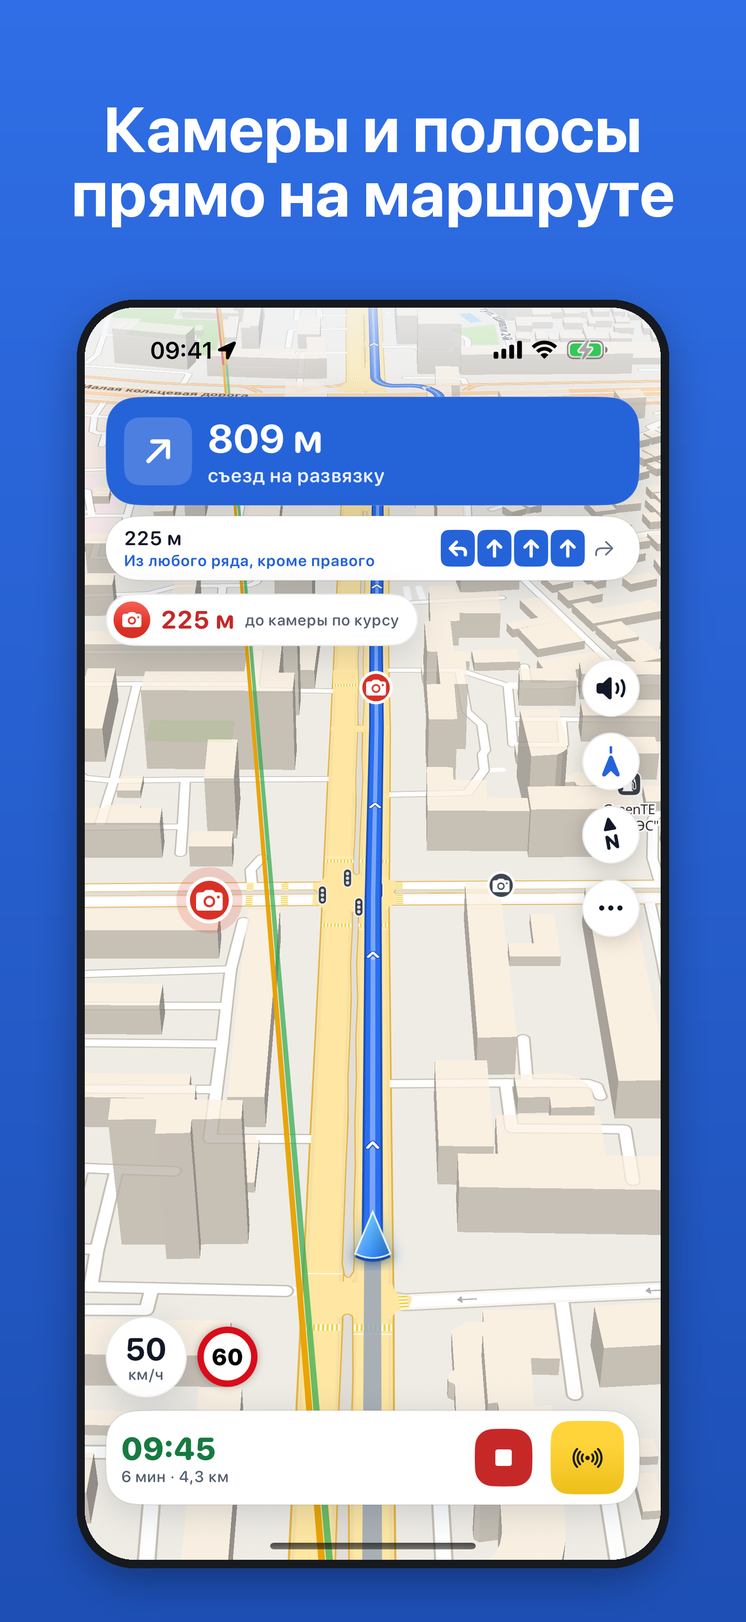
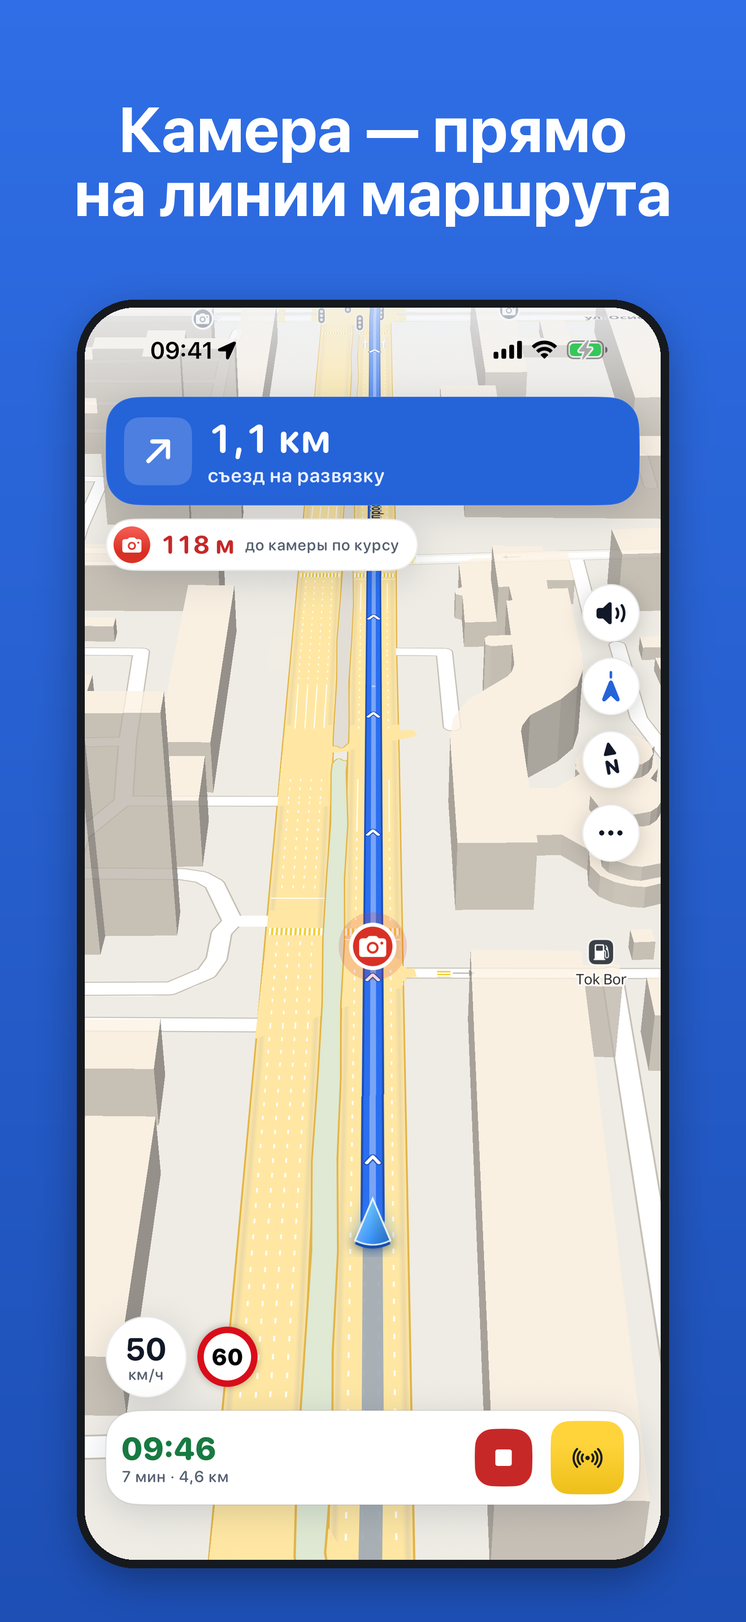
Скриншоты App Store: пересняты 2, 3, 5, 6; подписи вариантов маршрута не прячутся под камерами и названиями
Подпись «24 мин» отходит от значков камер (RoutePreview.clearOfCameras,
тесты) и стоит над подписями основы, под метками приложения — названия
её обходят. Пример имени для близких — «Азиз».

diff --git a/RadarMap/Features/Map/Engine/EngineRouteVariants.swift b/RadarMap/Features/Map/Engine/EngineRouteVariants.swift
@@ -11,7 +11,8 @@
 //  Слои ставятся в живой стиль при загрузке, а не в JSON стиля: это
 //  временная картинка экрана выбора, и шаблон выпуска о ней знать не должен.
 //  Стоит ниже «route-traveled»/«route-case» — выбранную ленту ничто не
-//  перекрывает; подписи — над стрелками маршрута, под камерами.
+//  перекрывает; подписи — над подписями основы (названия их обходят), под
+//  камерами и прочими метками приложения.
 //
 //  В ведении (поездка) вариантов нет: источник пуст, слои маршрута в ведении
 //  этот файл не трогает.
@@ -50,6 +51,14 @@ final class EngineRouteVariants {
         var variants: [RouteVariantLine]
         var selected: Int?
         var daylight: Bool
+        /// Значки камер, которых подпись сторонится (RoutePreview.clearOfCameras).
+        var avoid: [CameraSpot]
+    }
+
+    /// Где нарисован значок камеры — для подписи, а не для оповещения.
+    struct CameraSpot: Equatable {
+        let latitude: Double
+        let longitude: Double
     }
 
     private var installed = false
@@ -73,10 +82,12 @@ final class EngineRouteVariants {
     /// Показаны ли сейчас варианты (больше одного).
     var isShowing: Bool { lines.count > 1 }
 
-    func update(_ variants: [RouteVariantLine], selected: Int?, daylight: Bool, in view: MLNMapView) {
+    func update(_ variants: [RouteVariantLine], selected: Int?, daylight: Bool,
+                avoid: [CameraSpot] = [], in view: MLNMapView) {
         guard let style = view.style else { return }
         if !installed { install(in: style, daylight: daylight) }
-        let key = Key(variants: variants.count > 1 ? variants : [], selected: selected, daylight: daylight)
+        let key = Key(variants: variants.count > 1 ? variants : [], selected: selected, daylight: daylight,
+                      avoid: variants.count > 1 ? avoid : [])
         guard key != lastKey else { return }
         let themeChanged = lastKey?.daylight != daylight
         lastKey = key
@@ -102,11 +113,14 @@ final class EngineRouteVariants {
             others.isEmpty ? nil : MLNShapeCollectionFeature(shapes: others)
         // Подписи — у каждого варианта, в месте, где он отдельно от других.
         let mapLines = lines.map { $0.coordinates.map { MKMapPoint($0) } }
+        let cameraPoints = key.avoid.map {
+            MKMapPoint(CLLocationCoordinate2D(latitude: $0.latitude, longitude: $0.longitude))
+        }
         var labels: [MLNPointFeature] = []
         labelPoints = [:]
         var names: Set<String> = []
         for (index, variant) in shown.enumerated() {
-            guard let point = RoutePreview.labelPoint(of: index, lines: mapLines) else { continue }
+            guard let point = RoutePreview.labelPoint(of: index, lines: mapLines, avoid: cameraPoints) else { continue }
             let isSelected = variant.id == selected
             let name = "radar-variant-\(variant.id)-\(isSelected ? 1 : 0)-\(daylight ? "d" : "n")-\(variant.eta)"
             if !imageNames.contains(name) {
@@ -171,20 +185,38 @@ final class EngineRouteVariants {
         if style.layer(withIdentifier: Self.labelLayer) == nil {
             let labels = MLNSymbolStyleLayer(identifier: Self.labelLayer, source: labelSource)
             labels.iconImageName = NSExpression(forKeyPath: "img")
-            // Подпись не вытесняет ни камеру, ни название улицы — и её ничто
-            // не прячет: время варианта — то, ради чего человек смотрит.
+            // Время варианта — то, ради чего человек смотрит: подпись ничто не
+            // прячет (allow-overlap), а названия основы её обходят — она
+            // занимает место в раскладке и стоит ВЫШЕ подписей основы, а
+            // раскладка идёт сверху вниз. До 22.10 подпись лежала под
+            // подписями основы с ignore-placement, и «Кызгалдак» печатался
+            // поверх «24 мин» (снимки App Store). Камеры и прочие метки
+            // приложения — выше подписи: камера на карте не пропадает никогда,
+            // а от значков подпись отходит сама (RoutePreview.clearOfCameras).
             labels.iconAllowsOverlap = NSExpression(forConstantValue: true)
-            labels.iconIgnoresPlacement = NSExpression(forConstantValue: true)
+            labels.iconIgnoresPlacement = NSExpression(forConstantValue: false)
             labels.symbolSortKey = NSExpression(forKeyPath: "rank")
-            if let arrows = style.layer(withIdentifier: "route-arrows") {
+            if let markers = Self.firstMarkerLayer(in: style) {
+                style.insertLayer(labels, below: markers)
+            } else if let arrows = style.layer(withIdentifier: "route-arrows") {
                 style.insertLayer(labels, above: arrows)
-            } else if let camera = style.layer(withIdentifier: "camera-dot") {
-                style.insertLayer(labels, below: camera)
             } else {
                 style.addLayer(labels)
             }
         }
         paint(style, daylight: daylight)
+    }
+
+    /// Нижний слой меток приложения (EngineMapStyle.markerLayers): над всеми
+    /// подписями основы и под камерами.
+    static let markerLayerIDs = ["hotspot-zone", "hotspot-edge", "cng-status", "road-events",
+                                 "camera-halo", "camera-dot"]
+
+    private static func firstMarkerLayer(in style: MLNStyle) -> MLNStyleLayer? {
+        for id in markerLayerIDs {
+            if let layer = style.layer(withIdentifier: id) { return layer }
+        }
+        return nil
     }
 
     private func paint(_ style: MLNStyle, daylight: Bool) {

diff --git a/RadarMapTests/RoutePreviewTests.swift b/RadarMapTests/RoutePreviewTests.swift
@@ -173,6 +173,57 @@ final class RoutePreviewTests: XCTestCase {
         XCTAssertNil(RoutePreview.labelPoint(of: 3, lines: [a, b]))
     }
 
+    /// Значок камеры лежит над подписью: на месте лучшей точки стоит камера —
+    /// подпись отходит вдоль своей линии на порог, а не прячет цифру под
+    /// значком («26 мин» читалось как «6 мин», снимки App Store 22.10).
+    func testLabelStepsAwayFromACameraIcon() {
+        func line(_ xy: [(Double, Double)]) -> [MKMapPoint] { xy.map { MKMapPoint(x: $0.0, y: $0.1) } }
+        let a = line([(0, 0), (500, 0), (1000, 0)])
+        let b = line([(0, 0), (200, 0), (500, 400), (800, 0), (1000, 0)])
+        let free = try! XCTUnwrap(RoutePreview.labelPoint(of: 1, lines: [a, b]))
+        let label = try! XCTUnwrap(RoutePreview.labelPoint(of: 1, lines: [a, b], avoid: [free]))
+        let clearance = 1000 * AppConfig.routeVariantLabelCameraClearance
+        XCTAssertGreaterThanOrEqual(hypot(label.x - free.x, label.y - free.y), clearance,
+                                    "подпись ушла от значка на порог")
+        XCTAssertGreaterThan(label.y, 150, "и осталась на отходе варианта, а не на общей линии")
+        // Камера вдали от линий ничего не меняет.
+        let far = try! XCTUnwrap(RoutePreview.labelPoint(of: 1, lines: [a, b],
+                                                         avoid: [MKMapPoint(x: 5000, y: 5000)]))
+        XCTAssertEqual(far.x, free.x, accuracy: 0.001)
+        XCTAssertEqual(far.y, free.y, accuracy: 0.001)
+    }
+
+    /// Камеры на каждой точке-кандидате — подпись всё равно есть (прежний
+    /// выбор): спрятать время варианта хуже, чем положить его под значок.
+    func testLabelSurvivesCamerasEverywhere() {
+        func line(_ xy: [(Double, Double)]) -> [MKMapPoint] { xy.map { MKMapPoint(x: $0.0, y: $0.1) } }
+        let a = line([(0, 0), (500, 0), (1000, 0)])
+        let b = line([(0, 0), (200, 0), (500, 400), (800, 0), (1000, 0)])
+        let free = try! XCTUnwrap(RoutePreview.labelPoint(of: 1, lines: [a, b]))
+        let everywhere = RoutePreview.sampled(b, from: 0, to: 1, count: 400)
+        let label = try! XCTUnwrap(RoutePreview.labelPoint(of: 1, lines: [a, b], avoid: everywhere))
+        XCTAssertEqual(label.x, free.x, accuracy: 0.001)
+        XCTAssertEqual(label.y, free.y, accuracy: 0.001)
+    }
+
+    #if canImport(MapLibre)
+    /// Подпись «24 мин» встаёт под первую метку приложения — то есть над всеми
+    /// подписями основы (их раскладка идёт после и обходит подпись) и под
+    /// камерами. Якорь обязан быть нижним слоем меток, иначе какая-то метка
+    /// окажется под подписью.
+    func testVariantLabelsAnchorBelowEveryMarkerLayer() {
+        let markers = EngineMapStyle.markerLayers(label: "#000000", halo: "#ffffff").compactMap { $0["id"] as? String }
+        XCTAssertEqual(EngineRouteVariants.markerLayerIDs.first, markers.first,
+                       "якорь — самый нижний слой меток")
+        let cameraLayers = markers.filter { $0.hasPrefix("camera-") }
+        let anchorIndex = try! XCTUnwrap(markers.firstIndex(of: EngineRouteVariants.markerLayerIDs[0]))
+        for camera in cameraLayers {
+            XCTAssertGreaterThan(try! XCTUnwrap(markers.firstIndex(of: camera)), anchorIndex,
+                                 "\(camera) выше подписи варианта")
+        }
+    }
+    #endif
+
     func testThinningKeepsTheEnds() {
         let long = (0...999).map { MKMapPoint(x: Double($0), y: 0) }
         let thin = RoutePreview.thinned(long, limit: 10)

diff --git a/RadarMap/Models/RoutePreview.swift b/RadarMap/Models/RoutePreview.swift
@@ -172,7 +172,13 @@ nonisolated enum RoutePreview {
     /// Точка подписи «24 мин» на линии варианта `index`: та, что дальше всего
     /// от остальных вариантов, в средней части линии (у старта и цели
     /// варианты сходятся, и подписи легли бы стопкой). Один вариант — середина.
-    static func labelPoint(of index: Int, lines: [[MKMapPoint]]) -> MKMapPoint? {
+    ///
+    /// `avoid` — где на карте стоят значки камер. Подпись лежит ПОД камерами
+    /// (камера на карте не пропадает никогда), поэтому значок на месте
+    /// подписи съедал её начало: «26 мин» читалось как «6 мин» (снимки
+    /// App Store, 22.10). Точки ближе `routeVariantLabelCameraClearance` доли
+    /// охвата линий к камере отбрасываются; если чистых нет — прежний выбор.
+    static func labelPoint(of index: Int, lines: [[MKMapPoint]], avoid: [MKMapPoint] = []) -> MKMapPoint? {
         guard lines.indices.contains(index) else { return nil }
         let own = lines[index]
         guard own.count >= 2 else { return own.first }
@@ -183,12 +189,39 @@ nonisolated enum RoutePreview {
             .map { thinned(lines[$0], limit: AppConfig.routeVariantLabelOtherPoints) }
             .filter { !$0.isEmpty }
         guard !others.isEmpty else { return sampled(own, from: 0.5, to: 0.5, count: 1).first }
-        var best = samples[samples.count / 2], bestGap = -1.0
-        for sample in samples {
+        let pool = clearOfCameras(samples, lines: lines, avoid: avoid)
+        var best = pool[pool.count / 2], bestGap = -1.0
+        for sample in pool {
             let gap = others.map { mapDistance(from: sample, to: $0) }.min() ?? 0
             if gap > bestGap { best = sample; bestGap = gap }
         }
         return best
+    }
+
+    /// Точки-кандидаты, у которых нет значка камеры ближе порога. Порог —
+    /// доля охвата всех линий: экран выбора вписывает линии в кадр, так что
+    /// доля охвата — это почти постоянная доля ширины экрана, и подпись в
+    /// ~70 pt одинаково далека от значка на маршруте в 3 км и в 30 км.
+    static func clearOfCameras(_ samples: [MKMapPoint], lines: [[MKMapPoint]],
+                               avoid: [MKMapPoint]) -> [MKMapPoint] {
+        guard !avoid.isEmpty, !samples.isEmpty else { return samples }
+        var box = MKMapRect.null
+        for point in lines.joined() { box = box.union(MKMapRect(origin: point, size: MKMapSize(width: 0, height: 0))) }
+        let clearance = max(box.width, box.height) * AppConfig.routeVariantLabelCameraClearance
+        guard clearance > 0 else { return samples }
+        let near = avoid.filter {
+            $0.x > box.minX - clearance && $0.x < box.maxX + clearance
+                && $0.y > box.minY - clearance && $0.y < box.maxY + clearance
+        }
+        // Сначала полный порог, потом половина (в плотном центре города
+        // камеры стоят через квартал), и только потом — как раньше.
+        for share in [1.0, 0.5] {
+            let free = samples.filter { sample in
+                !near.contains { hypot($0.x - sample.x, $0.y - sample.y) < clearance * share }
+            }
+            if !free.isEmpty { return free }
+        }
+        return samples
     }
 
     /// Точки вдоль ломаной на долях длины [from, to], равномерно по длине.

diff --git a/RadarMap/Features/Map/MapScreen+TopPanels.swift b/RadarMap/Features/Map/MapScreen+TopPanels.swift
@@ -109,7 +109,7 @@ extension MapScreen {
             // HUD сверху всегда компактный: в покое главное «куда поедем», а в
             // поездке без маршрута полноразмерная карточка занимала пятую часть
             // экрана ради двух чисел. В навигации его здесь нет вовсе.
-            if mode.speedPlacement == .top {
+            if mode.speedPlacement == .top, !Self.screenshotHidesIdleHUD {
                 hudGestures(SpeedHUDView(secondary: true))
             }
             // Разовые подсказки по жестам и экономии — по одной, не простынёй.
@@ -134,6 +134,18 @@ extension MapScreen {
             // Теперь не двигается и то, что ПОД ними: колонка кнопок и сама
             // карта (кромка панелей для «я» их больше не считает).
         }
+    }
+
+    /// DEBUG `-hideIdleHUD`: кадр выбора маршрута для App Store без карточки
+    /// «444 м до радара» — в покое ближайшая камера есть всегда (окно — 150
+    /// ближайших, без предела по расстоянию), и снять экран выбора без неё
+    /// иначе нельзя. В релизе всегда false.
+    static var screenshotHidesIdleHUD: Bool {
+        #if DEBUG
+        ProcessInfo.processInfo.arguments.contains("-hideIdleHUD")
+        #else
+        false
+        #endif
     }
 
     var topLayer: some View {

diff --git a/RadarMap/Features/Map/Engine/EngineMapView.swift b/RadarMap/Features/Map/Engine/EngineMapView.swift
@@ -1094,8 +1094,18 @@ struct EngineMapView: UIViewRepresentable {
             updateMarks(model, in: view)
             updateCameraLabel(model.cameraLabel, in: view)
             updateTraffic(model, in: view)
+            // Подписи «24 мин» сторонятся значков камер: значок лежит выше и
+            // съедал первую цифру (снимки App Store, 22.10).
+            var spots: [EngineRouteVariants.CameraSpot] = []
+            if model.variants.count > 1 {
+                spots = cachedCameras.map { camera -> EngineRouteVariants.CameraSpot in
+                    let drawn = model.cameraPoints[camera.id]
+                    return EngineRouteVariants.CameraSpot(latitude: drawn?.latitude ?? camera.coordinate.latitude,
+                                                          longitude: drawn?.longitude ?? camera.coordinate.longitude)
+                }
+            }
             routeVariants.update(model.variants, selected: model.selectedVariantID,
-                                 daylight: model.daylight, in: view)
+                                 daylight: model.daylight, avoid: spots, in: view)
             routeLine.update(model, in: view)
         }
 

diff --git a/RadarMap/Features/Map/MyRoadDemo.swift b/RadarMap/Features/Map/MyRoadDemo.swift
@@ -18,7 +18,10 @@ import os
 enum MyRoadDemo {
     @MainActor
     static func seed(_ env: AppEnvironment) async -> MKMapRect? {
-        let work = TripStats.demoWork, home = TripStats.demoHome
+        // Файл с путями задаёт и сами места: начало и конец «своей» линии.
+        let real = realPaths()
+        let work = real?.mine.first ?? TripStats.demoWork
+        let home = real?.mine.last ?? TripStats.demoHome
         let k = 111_320 * cos(work.latitude * .pi / 180)
         // Метры от работы: x — восток, y — север.
         func at(_ x: Double, _ y: Double) -> CLLocationCoordinate2D {
@@ -43,7 +46,7 @@ enum MyRoadDemo {
         // Снимки App Store: настоящие пути по дорогам из Documents/myroad_demo.json
         // ({"fast": [[lat, lon], …], "alt": …, "mine": …} — ответы OSRM от работы
         // до дома). Лесенка через кварталы на витрине выглядела подделкой.
-        if let real = realPaths() {
+        if let real {
             fast = real.fast
             south = real.alt
             mine = real.mine

diff --git a/RadarMap/Support/AppConfig.swift b/RadarMap/Support/AppConfig.swift
@@ -1771,6 +1771,10 @@ nonisolated enum AppConfig {
     nonisolated static let routeVariantLabelSpan: ClosedRange<Double> = 0.2...0.8
     nonisolated static let routeVariantLabelSamples = 40
     nonisolated static let routeVariantLabelOtherPoints = 400
+    /// Подпись не ставится ближе этой доли охвата линий к значку камеры
+    /// (RoutePreview.clearOfCameras): ~8 % ширины кадра — полподписи
+    /// (~35 pt из 400) и значок камеры (~12 pt).
+    nonisolated static let routeVariantLabelCameraClearance = 0.08
 
     // MARK: - CarPlay
 

diff --git a/RadarMap/Services/FamilyShareService.swift b/RadarMap/Services/FamilyShareService.swift
@@ -332,7 +332,7 @@ final class FamilyShareService {
         var wife = FamilyRecipient(name: "Дилноза", emoji: "👩", now: now)
         wife.linkSentAt = now.addingTimeInterval(-2 * 86_400)
         let father = FamilyRecipient(name: "Папа", emoji: "👴", mode: .everyTrip, now: now)
-        return FamilyCircle(recipients: [mother, wife, father], driverName: "Зафар")
+        return FamilyCircle(recipients: [mother, wife, father], driverName: "Азиз")
     }
 
     /// Демо: первая — «видит сейчас».

diff --git a/RadarMap/Features/Settings/FamilyShareSettingsPage.swift b/RadarMap/Features/Settings/FamilyShareSettingsPage.swift
@@ -68,7 +68,7 @@ struct FamilyShareSettingsPage: View {
             } header: {
                 Text("Как вас назовут близким")
             } footer: {
-                Text("На странице и в сообщениях: «Зафар едет домой». Пусто — «Водитель».")
+                Text("На странице и в сообщениях: «Азиз едет домой». Пусто — «Водитель».")
             }
 
             if !circle.recipients.isEmpty {

diff --git a/tools/appstore/marketing_shots.py b/tools/appstore/marketing_shots.py
@@ -18,7 +18,7 @@ FONT = "/System/Library/Fonts/SFNS.ttf"
 # Файл → (строки подписи, тема фона). Тексты — короткие, по-русски.
 CAPTIONS = {
     "01_alert":  (["Предупредит", "о камере заранее"], "day"),
-    "02_drive":  (["Камеры и полосы", "прямо на маршруте"], "day"),
+    "02_drive":  (["Камера — прямо", "на линии маршрута"], "day"),
     "03_myroad": (["Своя дорога домой", "и выбор маршрута"], "day"),
     "04_rating": (["Рейтинг, который", "можно проверить"], "day"),
     "05_family": (["Близкие видят,", "когда вы будете дома"], "day"),

diff --git a/docs/appstore/screenshots/6.9/README.md b/docs/appstore/screenshots/6.9/README.md
@@ -1,6 +1,6 @@
 # Скриншоты App Store — 6.9″ (iPhone 17 Pro Max, 1320×2868)
 
-Сборка 2.2.30 (125), палитра v5, русский интерфейс, сняты 22.10.2026 на симуляторе.
+Сборка 2.2.30 (125), палитра v5, русский интерфейс, сняты 22.10.2026 на симуляторе (кадры 2, 3, 5, 6 пересняты в тот же день).
 `raw/` — чистые кадры, `marketing/` — с подписью сверху (собирает
 `tools/appstore/marketing_shots.py`, подписи — в его `CAPTIONS`). Все PNG RGB без альфы.
 Для iPhone этого набора достаточно: меньшие размеры App Store Connect масштабирует сам.
@@ -8,10 +8,10 @@
 | № | Файл | Подпись | Что на кадре | Как снято |
 |---|---|---|---|---|
 | 1 | 01_alert | Предупредит о камере заранее | ведение по маршруту, карточка «Стационарный радар, 163 м», лимит 60, 47 км/ч, радары на линии | поездка по Нурафшон: `-demoRouteTo 41.3418,69.2440 -demoRoute -driveDemo` + `simctl location start` |
-| 2 | 02_drive | Камеры и полосы прямо на маршруте | просп. Амира Темура в наклоне: манёвр, подсказка по рядам, камера на линии, пробки, прибытие 09:45 | то же, `-hideCameraAlert -demoTraffic`, часы приложения подогнаны к 9:41 через `TZ` |
-| 3 | 03_myroad | Своя дорога домой и выбор маршрута | «Быстрый / Меньше камер / Моя дорога» от работы до дома | `-demoMyRoad` + `Documents/myroad_demo.json` (пути OSRM, DEBUG) |
+| 2 | 02_drive | Камера — прямо на линии маршрута | просп. Амира Темура в наклоне: манёвр, камера на линии в 118 м, лимит 60, прибытие 09:46 | `-demoRouteTo 41.3560,69.2860 -demoRoute -driveDemo -hideCameraAlert` + `simctl location start`, часы приложения подогнаны к 9:41 через `TZ` (без `-demoTraffic`: его демо-пробки — прямые отрезки поперёк кварталов) |
+| 3 | 03_myroad | Своя дорога домой и выбор маршрута | «Быстрый / 28 мин / Моя дорога» на северо-западе Ташкента (Келес → Куксарай), подписи времени ни с чем не пересекаются | `-demoMyRoad -hideIdleHUD` + `Documents/myroad_demo.json` (пути OSRM; начало и конец «своей» линии — работа и дом) |
 | 4 | 04_rating | Рейтинг, который можно проверить | рейтинг 71, «100 − 29 = 71», где теряете баллы | `-demoHistory -showStats -showRatingInfo` |
-| 5 | 05_family | Близкие видят, когда вы будете дома | «Близкие видят прибытие»: Мама, Дилноза, Папа | `-demoFamily -showSettings -settingsPage family` |
-| 6 | 06_night | Ночью — спокойная тёмная карта | та же поездка ночью, 21:26 → прибытие 21:33 | тема «Тёмная», статус-бар по часам приложения |
+| 5 | 05_family | Близкие видят, когда вы будете дома | «Близкие видят прибытие»: Мама, Дилноза, Папа; имя водителя «Азиз» | `-demoFamily -showSettings -settingsPage family` |
+| 6 | 06_night | Ночью — спокойная тёмная карта | тот же участок ночью, 21:56 → прибытие 22:03, камера на линии в 132 м | тема «Тёмная», статус-бар по часам приложения |
 
 CarPlay отдельным кадром не снимался (в iPhone-набор не загружается).
